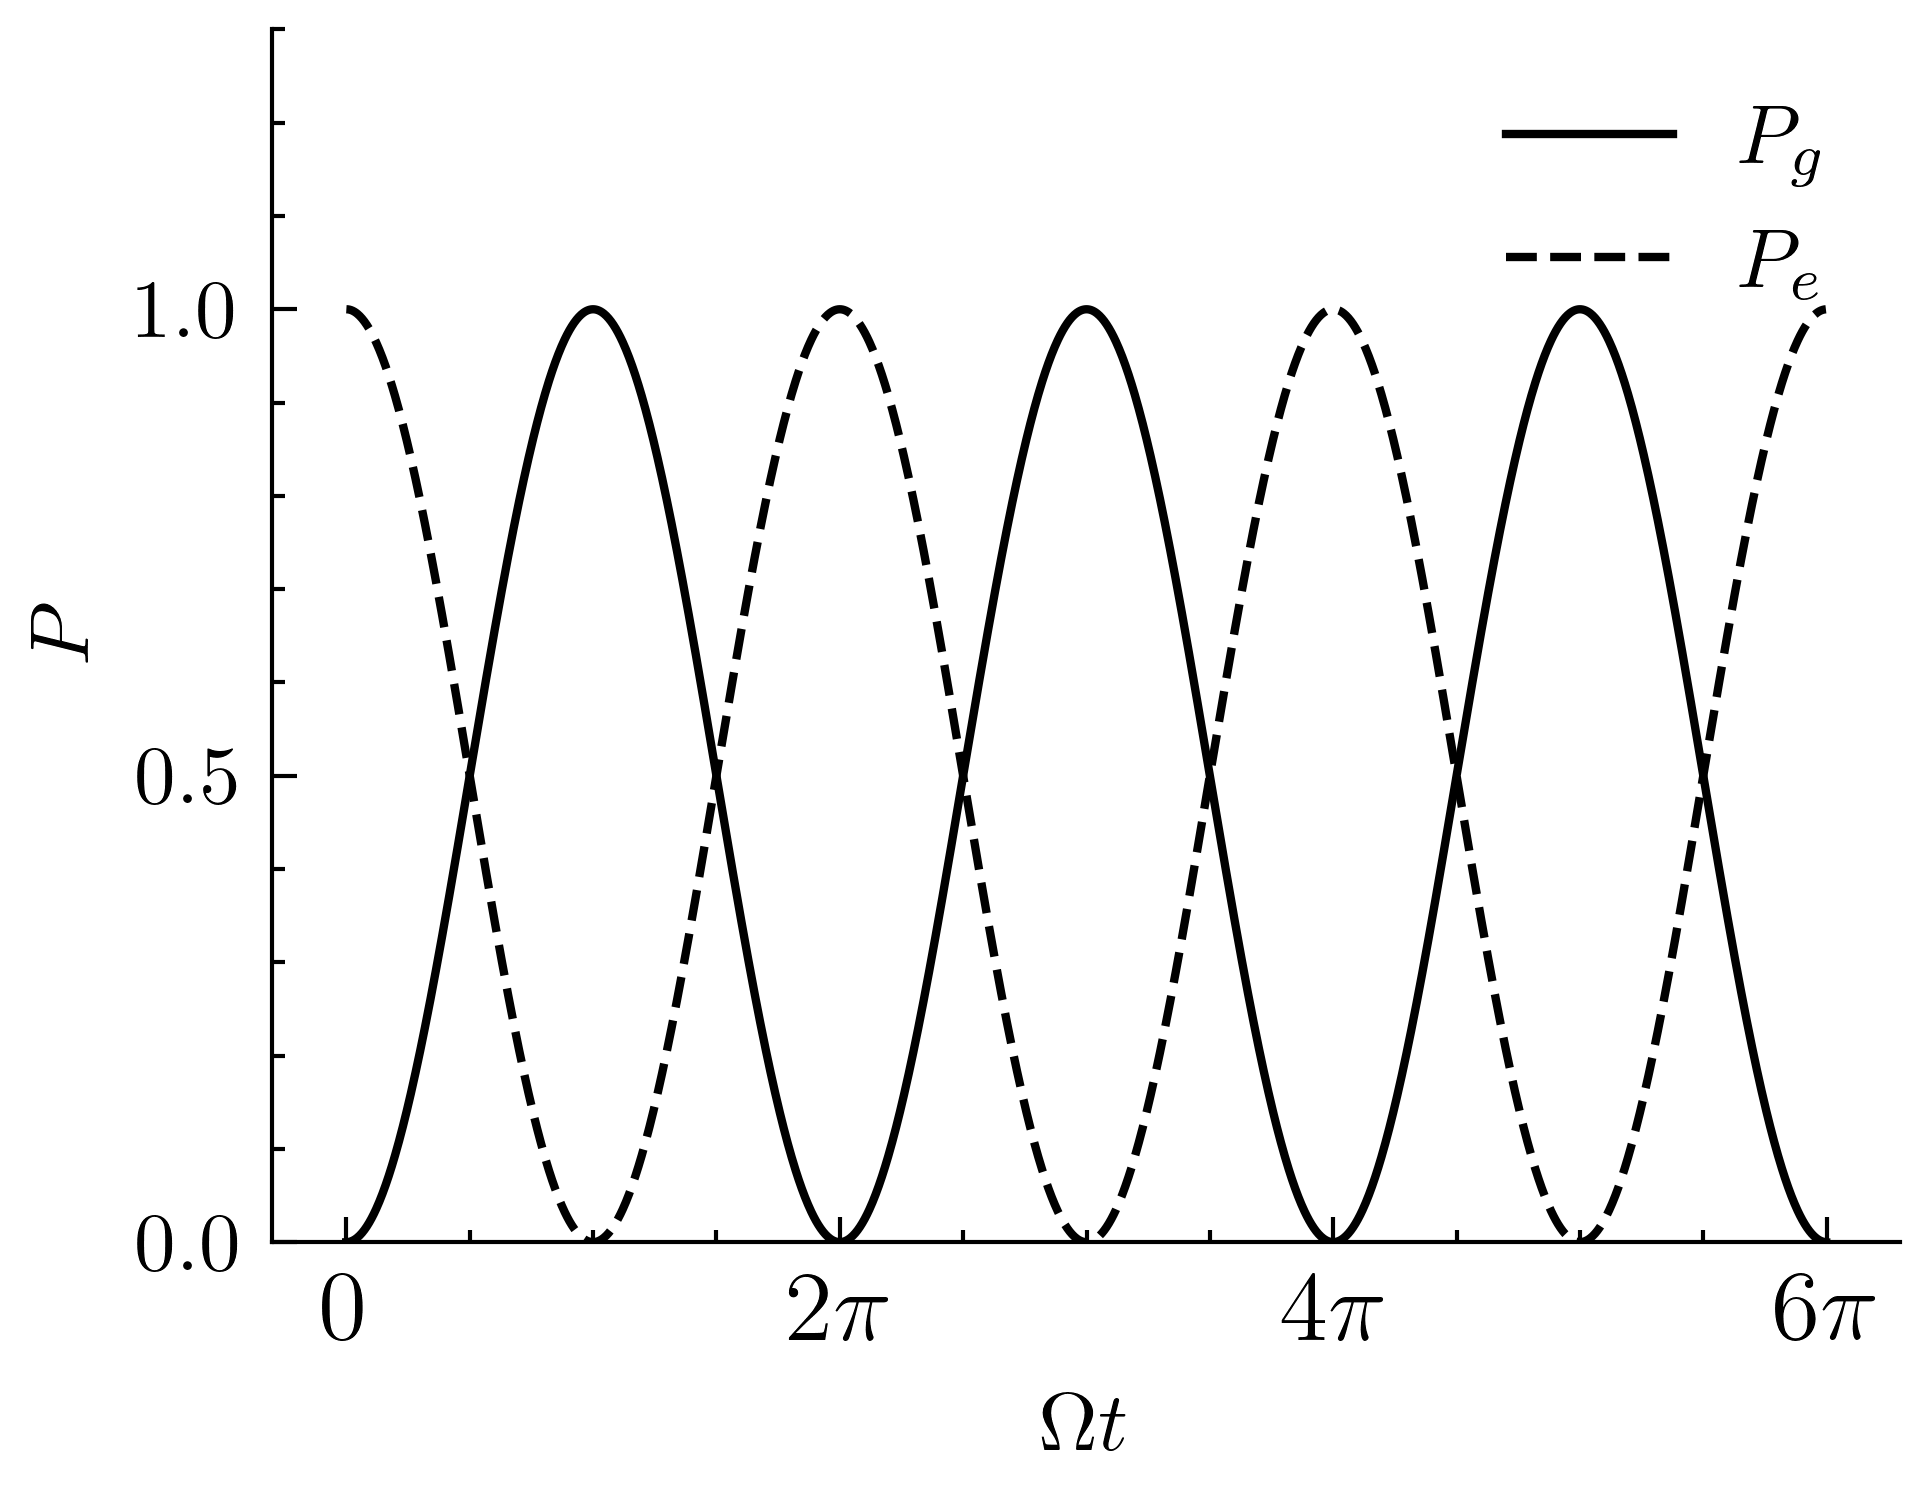
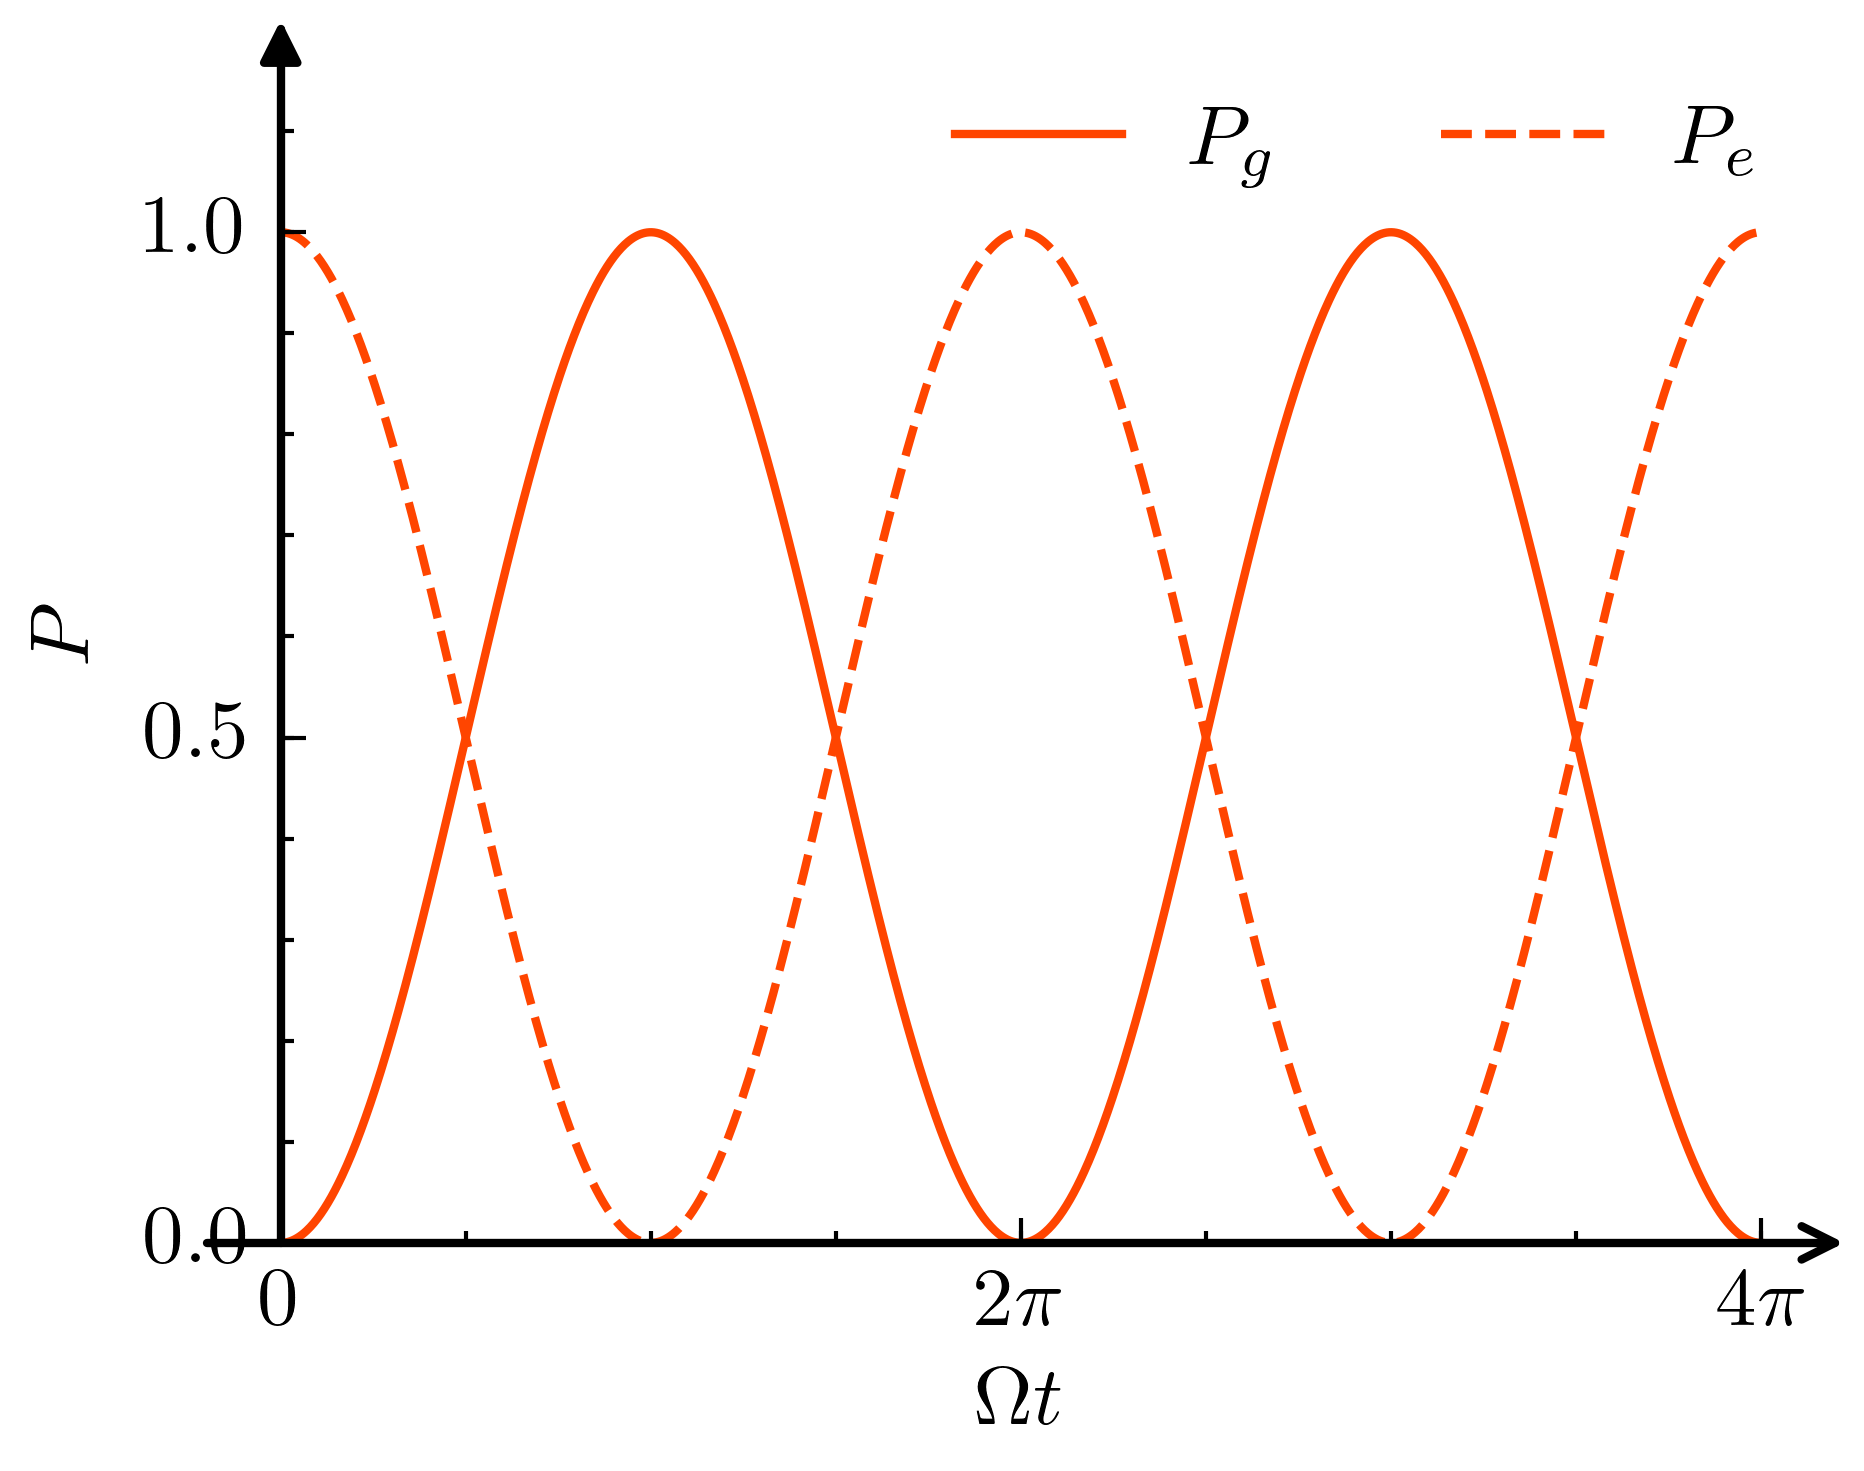
1

diff --git a/picture.py b/picture.py
@@ -10,32 +10,46 @@ sys.path.append(r"D:\Software\python\pythonProject\Optically-pumped-atoms\Optica
 import numpy as np
 import matplotlib.pyplot as plt
 import scienceplots
+import mpl_toolkits.axisartist as axisartist
 
 
-t=np.arange(0,6*np.pi,0.01)
+t=np.arange(0,4*np.pi,0.01)
 y1=np.sin(t/2)**2
 y2=1-y1
 
 plt.style.use(['science'])
 with plt.style.context(['science']):
     plt.rc('font',family='Times New Roman')
+    #通过set_visible方法设置绘图区所有坐标轴隐藏
     fig=plt.figure()
-    ax = fig.add_subplot(1, 1, 1)
-    p1,=ax.plot(t,y1,color='black')
-    p2,=ax.plot(t,y2,color='black',linestyle='dashed')
-    plt.xlabel('$\Omega t$')
-    plt.ylabel('$P$')
-    ax.spines['right'].set_visible(False)
-    ax.spines['top'].set_visible(False)
-    ax.tick_params(axis='x', which='both', bottom=True, top=False, labelbottom=True, labeltop=False)
-    ax.tick_params(axis='y', which='both', left=True, right=False, labelleft=True, labelright=False)
-    ax.set_xticks([0, 2*np.pi,4*np.pi, 6*np.pi])
-    ax.set_yticks([0,0.5, 1])
-    ax.set_xticklabels(['$0$', '$2\pi$', '$4\pi$', '$6\pi$'], rotation=0, fontsize=12)
-    ax.legend([p1, p2],["$ P_g$", "$ P_e$"],loc='upper right')
-    plt.ylim([0,1.3])
-    plt.savefig('rabi.png', dpi=600)
+    #使用axisartist.Subplot方法创建一个绘图区对象ax
+    ax = axisartist.Subplot(fig, 111)  
+    #将绘图区对象添加到画布中
+    fig.add_axes(ax)
+    ax.axis[:].set_visible(False)
+    #ax.new_floating_axis代表添加新的坐标轴
+    ax.axis["x"] = ax.new_floating_axis(0,0)
+    #给x坐标轴加上箭头
+    ax.axis["x"].set_axisline_style("->", size = 1.0)
+    #添加y坐标轴，且加上箭头
+    ax.axis["y"] = ax.new_floating_axis(1,0)
+    ax.axis["y"].set_axisline_style("-|>", size = 1.0)
+    #设置x、y轴上刻度显示方向
+    ax.axis["x"].set_axis_direction("bottom")
+    ax.axis["y"].set_axis_direction("left")
 
+    p1,=ax.plot(t,y1,color='orangered')
+    p2,=ax.plot(t,y2,color='orangered',linestyle='dashed')
+    ax.axis["x"].set_label('$\Omega t$')
+    ax.axis["y"].set_label('$P$')
+
+    ax.set_xticks([0, 2*np.pi,4*np.pi])
+    ax.set_yticks([0,0.5, 1])
+    ax.set_xticklabels(['$0$', '$2\pi$', '$4\pi$'], rotation=0, fontsize=12)
+    ax.legend([p1, p2],["$ P_g$", "$ P_e$"],loc='upper right',ncol=2)
+    plt.ylim([0,1.2])
+    plt.savefig('rabi.png', dpi=600)
+plt.show()
 
 
 
